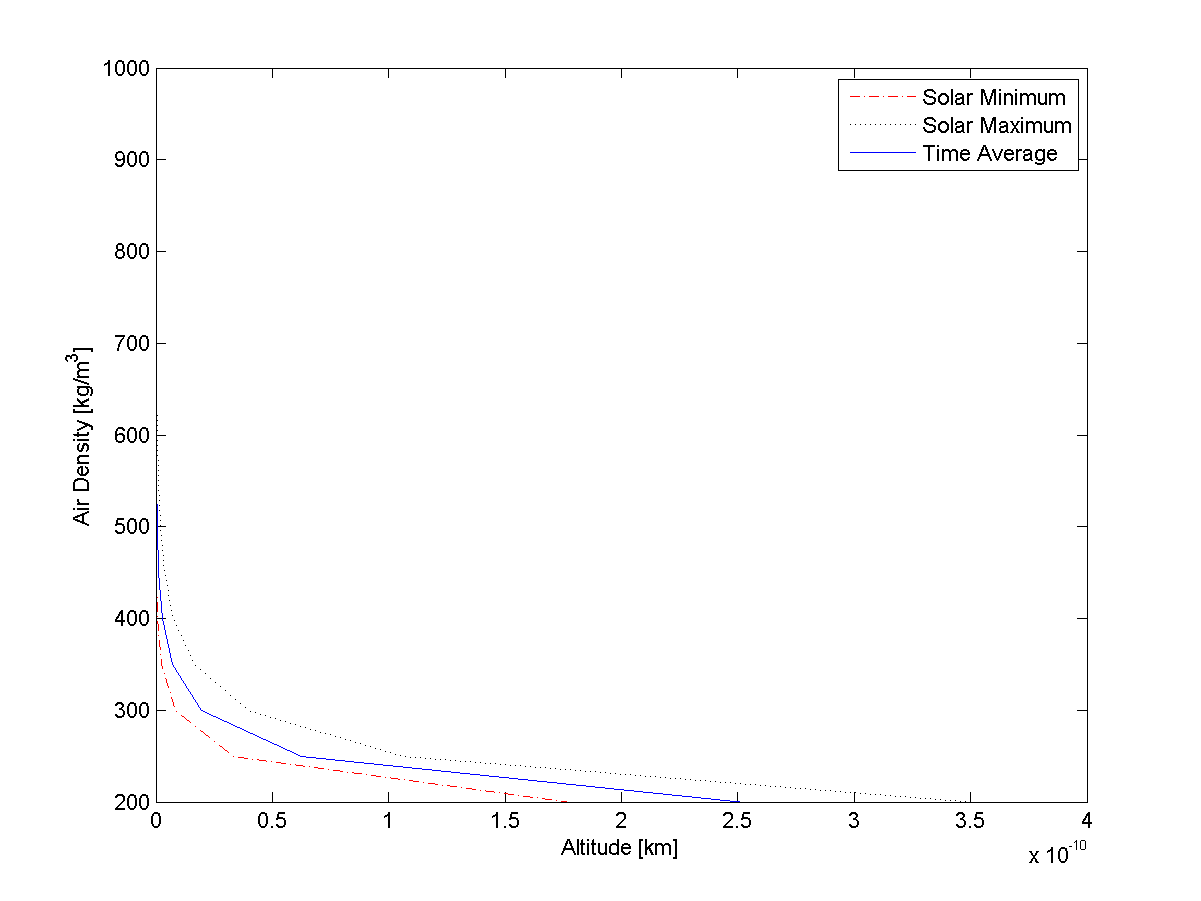
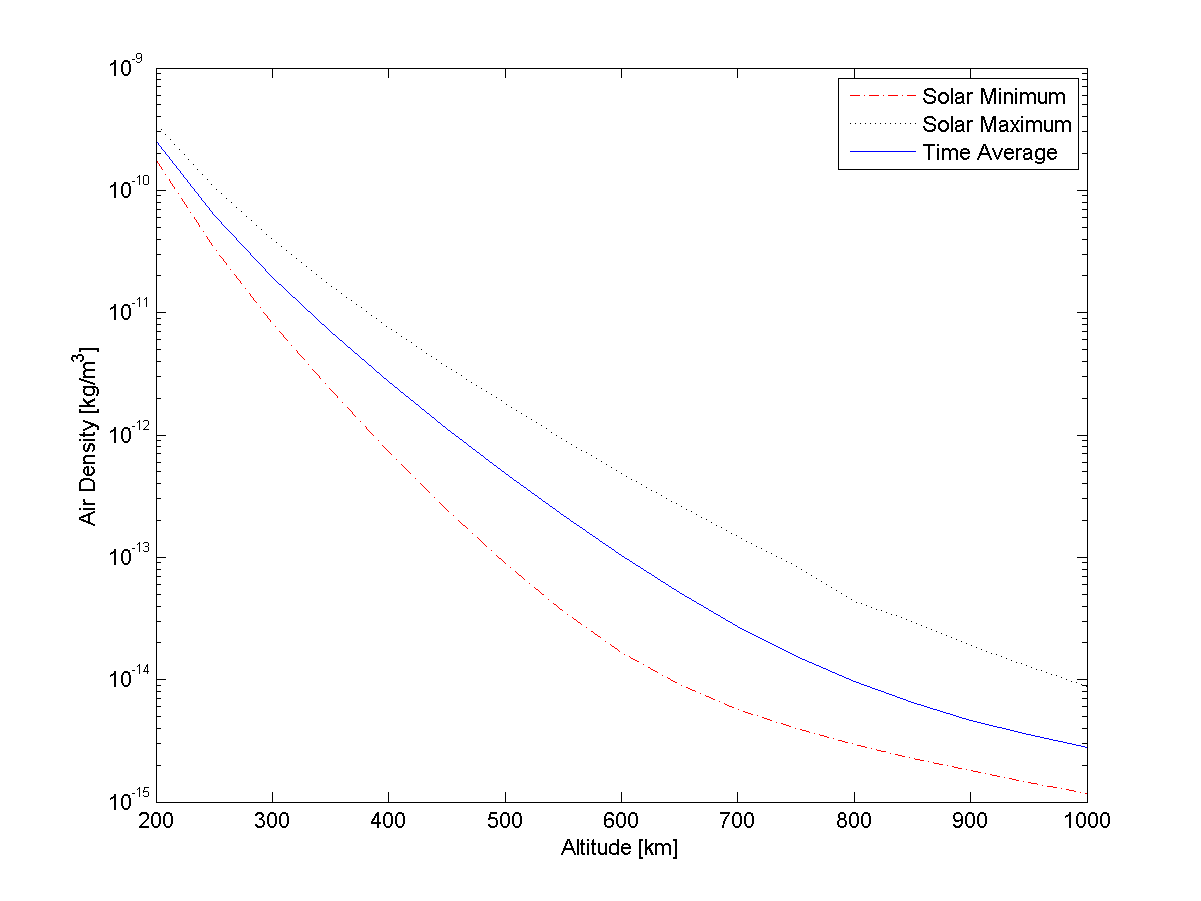
git-svn-id: svn://localhost/tmp/testgc/trunk@543 230b2fa6-915b-415b-b5c9-3ad8ff460498

diff --git a/reportWritingRules.tex b/reportWritingRules.tex
@@ -1,0 +1,58 @@
+\documentclass[11pt, a4paper ]{article}
+
+\topmargin -1.5cm
+\oddsidemargin -0.04cm 
+\evensidemargin -0.04cm 
+\textwidth 16.59cm 
+\textheight 21.94cm 
+\parskip 7.2pt 
+
+\begin{document}
+\title{Rules and Regulations for Report Styling}
+\author{Alex Vorobiev}
+\date{\today}
+\maketitle
+
+\section{Text}
+\begin{itemize}
+	\item Don't use \emph{don't}, \emph{can't} or \emph{wouldn't} in official documents.
+	\item Try to avoid using the word \emph{basically}. Makes the reader feel stupid.
+\end{itemize}
+
+\section{Chapters and Sections}
+Please conform to the following rules concerning the structuring and naming of the chapters and sections
+\begin{itemize}
+	\item All chapters should begin with a small introduction describing the contents.
+	\item All titles should be capitalized (i.e. use Capital letters at the start of nouns and verbs).
+	\item All sections should have individual .tex files and corresponding labels. Subsections should be labeled with an extra part. For example: chapter - blDO, section - blDOADCS, subsection - blDOADCSActive.
+\end{itemize}
+\section{Figures}
+\begin{itemize}
+	\item When referencing in text do it like this: "... figure 4 ..."
+	\item Captions should clearly indicate what is shown in the figure.
+	\item Labels should be in the form: \emph{fig:blDOname}.
+	\item If the image is taken from a website directly, specify the url in the caption in the form: \emph{source: http://www.bla.com }.
+	\item B/W compatible.
+\end{itemize}
+\section{Tables}
+\begin{itemize}
+	\item Captions: see Figures.
+	\item When referencing in text do it like this: "... table 4 ..."
+	\item No outside border.
+	\item Double line under the column titles.
+	\item Column titles in capitals and bold.
+	\item Labels should be in the form: \emph{table:blDOname}.
+\end{itemize}
+\section{Charts}
+\begin{itemize}
+	\item Black lines.
+	\item White bg in boxes (only use color when absolutely necessary, and sparingly).
+	\item Do not use color to distinguish things in the captions. Remember that some people print in black/white.
+	\item Text: Arial 8pt.
+\end{itemize}
+
+\emph{AND MOST IMPORTANTLY: READ WHAT YOU WROTE \textbf{BEFORE} YOU COMMIT IT!}
+
+Check regularly for updates.
+
+\end{document}

diff --git a/midTermReport/matlab/pertubations.m b/midTermReport/matlab/pertubations.m
@@ -1,7 +1,7 @@
 clear all;
 clc;
-%function dV=deltaVrev(h, CDAM)
-%Oribt perturbations calculations and graphs
+close all;
+
 
 %J2
 J2 = 0.00108263;
@@ -79,11 +79,9 @@ figure3 = figure('Color',[1 1 1]); %varMass
 % Create axes
 axes('Parent',figure3);
 box('on');
-hold on;
+%hold on;
 
-plot(densityMin,alt,'r-.');
-plot(densityMax,alt,'k:');
-plot(densityMean,alt);
+semilogy(alt,densityMin,'r-.',alt,densityMax,'k:',alt,densityMean,'b-');
 xlabel({'Altitude [km]'});
 ylabel({'Air Density [kg/m^3]'});
 h = legend('Solar Minimum','Solar Maximum', 'Time Average',3);
